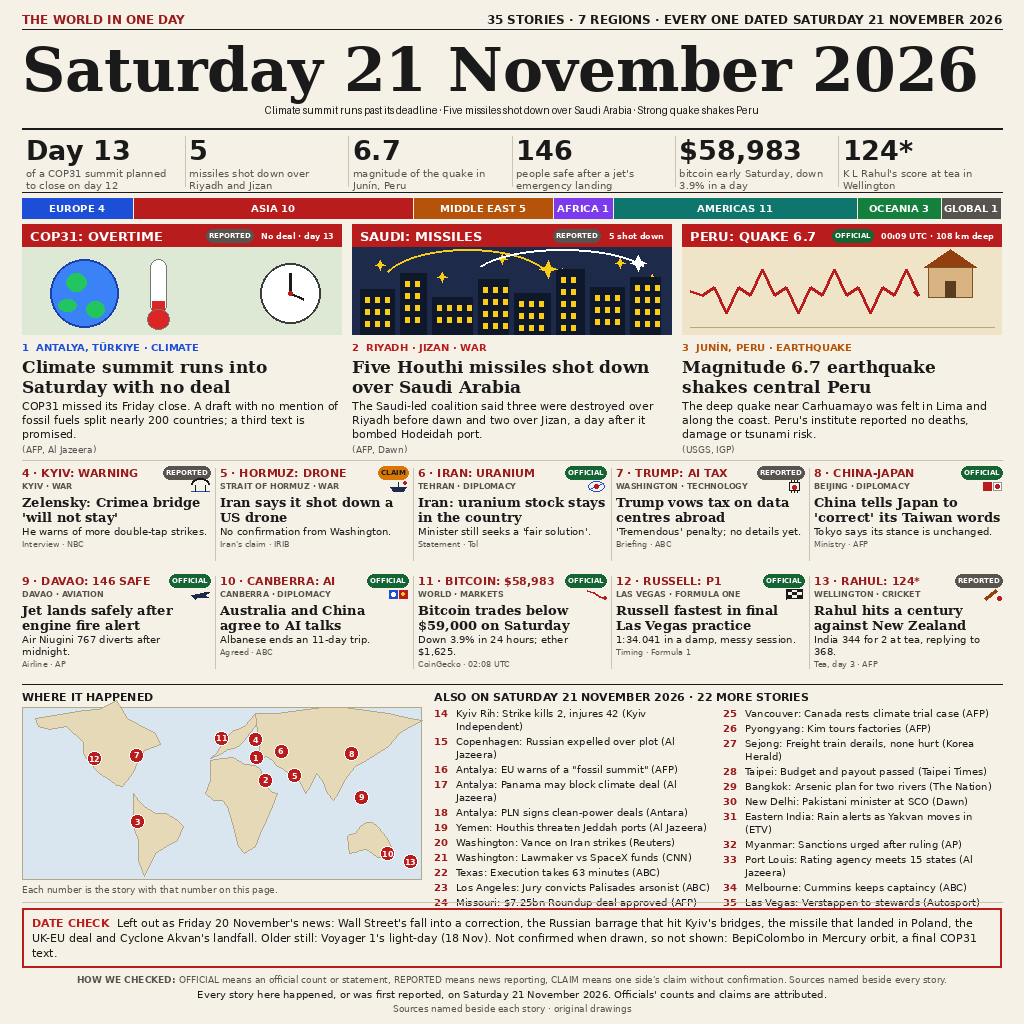
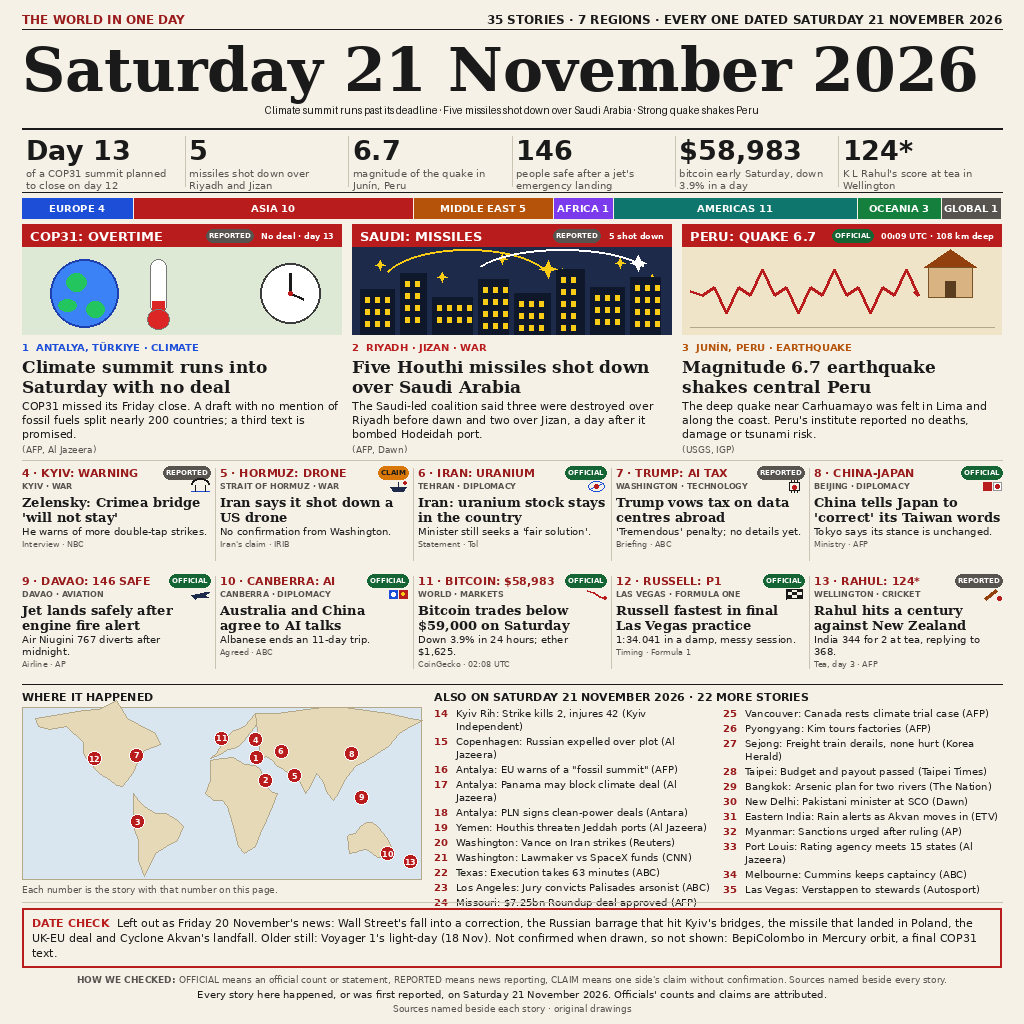
Fix cyclone name consistency: Akvan everywhere, not Yakvan in story 31

Changed region(s): [[0.6875, 0.7812, 0.9688, 0.875]]

diff --git a/main.py b/main.py
@@ -157,7 +157,7 @@ ALSO = [
     (28, "Taipei", "Budget and payout passed", "Taipei Times"),
     (29, "Bangkok", "Arsenic plan for two rivers", "The Nation"),
     (30, "New Delhi", "Pakistani minister at SCO", "Dawn"),
-    (31, "Eastern India", "Rain alerts as Yakvan moves in", "ETV"),
+    (31, "Eastern India", "Rain alerts as Akvan moves in", "ETV"),
     (32, "Myanmar", "Sanctions urged after ruling", "AP"),
     (33, "Port Louis", "Rating agency meets 15 states", "Al Jazeera"),
     (34, "Melbourne", "Cummins keeps captaincy", "ABC"),
